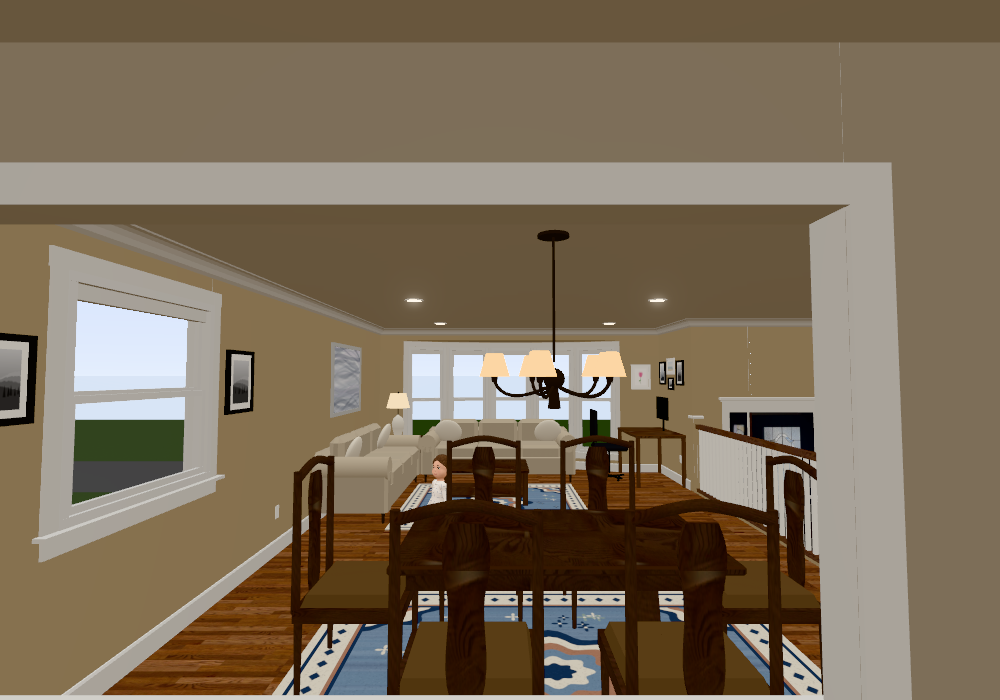
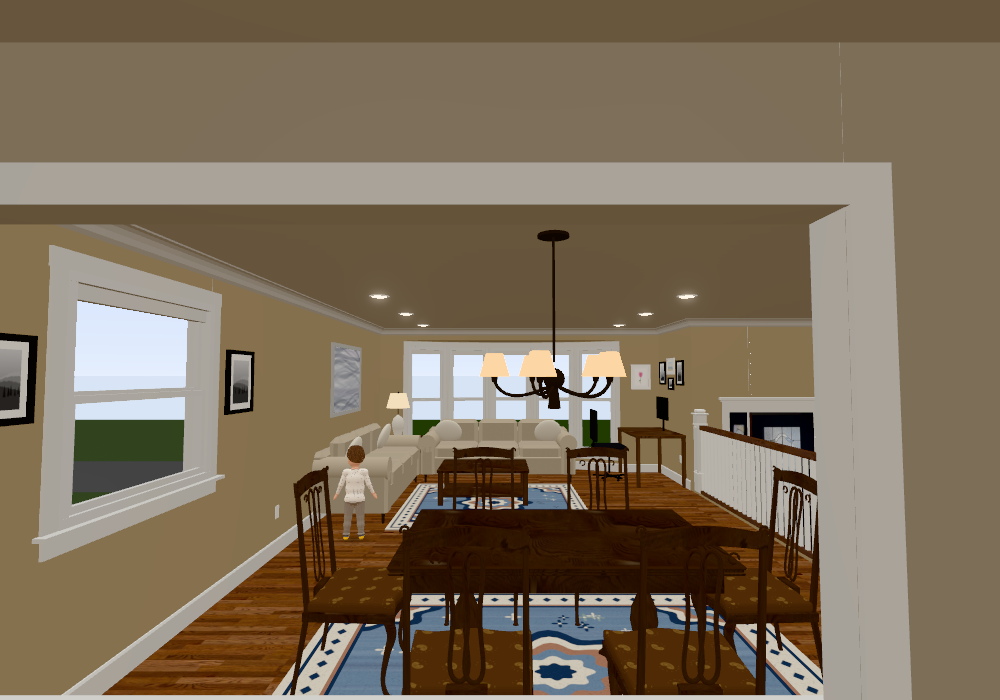
Breakfast and dining tables and chairs restyled
Breakfast table in light maple: breadboard ends with the grain across, a 0.3
apron and four turned legs. New 'wheat' chairs: dished saddle seat, splayed
turned legs with an H-stretcher and front stretcher, turned back posts with
acorn finials, a bent crest and lower rail joined by a sheaf of spindles.

Dining table: moulded top edge and a double pedestal of turned vase columns
on S-curved carved feet. Dining chairs: cabriole front legs with carved knees
and pad feet, rear legs splayed back, a serpentine seat in a new procedural
bronze-brown brocade, an interlaced figure-8 back with volutes, and an arched
crest with scrolled ends and a shell.

diff --git a/js/house.js b/js/house.js
@@ -1347,16 +1347,40 @@ const FURN = {
   },
   table(b, f) {
     const [x0, x1, z0, z1] = f.r, F = f.base, wood = 'stain:' + f.wood;
-    const H = 2.5;
-    b.box(x0, x1, F + H - 0.14, F + H, z0, z1, wood, { dens: 6, bevel: 0.035 });
-    b.box(x0 + 0.25, x1 - 0.25, F + H - 0.45, F + H - 0.14, z0 + 0.25, z1 - 0.25, wood, { skip: ['py'] });
+    const H = 2.5, top = F + H;
     if (f.chair === 'dining') {
+      // moulded top edge (stacked bevelled layers), 0.35 apron, double pedestal: turned vase columns on
+      // four splayed S-curved carved feet
+      b.box(x0, x1, top - 0.06, top, z0, z1, wood, { dens: 6, bevel: 0.025 });
+      b.box(x0 + 0.03, x1 - 0.03, top - 0.1, top - 0.06, z0 + 0.03, z1 - 0.03, wood, { skip: ['py'], dens: 6, bevel: 0.02 });
+      b.box(x0 + 0.015, x1 - 0.015, top - 0.14, top - 0.1, z0 + 0.015, z1 - 0.015, wood, { skip: ['py'], dens: 6, bevel: 0.02 });
+      b.box(x0 + 0.25, x1 - 0.25, top - 0.49, top - 0.14, z0 + 0.25, z1 - 0.25, wood, { skip: ['py'] });
+      const foot = new THREE.Shape();
+      foot.moveTo(0.08, 0.5); foot.bezierCurveTo(0.35, 0.52, 0.42, 0.14, 0.78, 0.12); foot.quadraticCurveTo(0.93, 0.11, 0.92, 0.03);
+      foot.lineTo(0.9, 0); foot.lineTo(0.72, 0); foot.bezierCurveTo(0.55, 0.02, 0.4, 0.3, 0.08, 0.3); foot.lineTo(0.08, 0.5);
+      const pz = (z0 + z1) / 2;
       for (const px of [x0 + 1.1, x1 - 1.1]) {
-        b.prim(new THREE.CylinderGeometry(0.22, 0.35, H - 0.6, 12), wood, px, F + (H - 0.45) / 2 + 0.15, (z0 + z1) / 2);
-        b.box(px - 0.3, px + 0.3, F, F + 0.3, z0 + 0.6, z1 - 0.6, wood, { skip: ['ny'] });
+        b.mesh(turned([px, F + 0.15, pz], [px, top - 0.49, pz], [[0.001, 0], [0.22, 0], [0.22, 0.14], [0.15, 0.19], [0.2, 0.3], [0.25, 0.42],
+          [0.22, 0.55], [0.1, 0.7], [0.15, 0.74], [0.15, 0.77], [0.09, 0.82], [0.13, 0.9], [0.18, 0.93], [0.18, 1], [0.001, 1]], 20), wood);
+        for (let k = 0; k < 4; k++) {
+          const g = new THREE.ExtrudeGeometry(foot, { depth: 0.12, bevelEnabled: true, bevelThickness: 0.02, bevelSize: 0.02, bevelSegments: 2, curveSegments: 10 });
+          g.translate(0, 0.02, -0.06);
+          b.prim(g, wood, px, F, pz, -(Math.PI / 4 + k * Math.PI / 2));
+        }
       }
     } else {
-      for (const [px, pz] of [[x0 + 0.3, z0 + 0.3], [x1 - 0.3, z0 + 0.3], [x0 + 0.3, z1 - 0.3], [x1 - 0.3, z1 - 0.3]]) b.prim(new THREE.CylinderGeometry(0.1, 0.07, H - 0.14, 10), wood, px, F + (H - 0.14) / 2, pz);
+      // breakfast table: top with breadboard ends (grain across), 0.3 apron inset 0.15, four turned legs
+      const T = 0.12, be = 0.25, ab = top - T - 0.3;
+      b.box(x0 + be, x1 - be, top - T, top, z0, z1, wood, { dens: 6, bevel: 0.03 });
+      for (const [xa, xb] of [[x0, x0 + be], [x1 - be, x1]]) {
+        b.box(xa, xb, top - T, top, z0, z1, wood, { dens: 6, bevel: 0.03, uvFaces: { py: [[z0, xa], [z1, xa], [z1, xb], [z0, xb]] } });
+      }
+      b.box(x0 + 0.15, x1 - 0.15, ab, top - T, z0 + 0.15, z1 - 0.15, wood, { skip: ['py'] });
+      for (const lx of [x0 + 0.25, x1 - 0.25]) for (const lz of [z0 + 0.25, z1 - 0.25]) {
+        b.mbox(lx - 0.1, lx + 0.1, ab - 0.25, ab, lz - 0.1, lz + 0.1, wood);         // square top block
+        b.mesh(turned([lx, F, lz], [lx, ab - 0.25, lz], [[0.001, 0], [0.066, 0], [0.07, 0.02], [0.075, 0.3], [0.08, 0.45], [0.09, 0.5],
+          [0.09, 0.53], [0.07, 0.56], [0.078, 0.62], [0.098, 0.74], [0.075, 0.86], [0.088, 0.9], [0.088, 0.93], [0.07, 0.955], [0.092, 0.98], [0.092, 1], [0.001, 1]]), wood);
+      }
     }
     b.collider(x0, x1, F, F + H, z0, z1);
     const cx = (x0 + x1) / 2, cz = (z0 + z1) / 2;
@@ -1770,58 +1794,163 @@ function sleighPanel(b, x0, x1, z0, z1, F, H, wood, axis) {
   }
   if (axis === 'z') b.collider(x0, x1, F, F + H, z0, z1); else b.collider(x0, x1, F, F + H, z0, z1);
 }
-function chair(b, x, z, F, face, wood, style) {
-  const [dx, dz] = faceDir(face);
-  const dining = style === 'dining';
-  const s = dining ? 0.95 : 0.85;
-  // local frame: forward (toward the table) = (dx, dz), side = perpendicular
-  const fx = dx, fz = dz, sx = -dz, sz = dx;
-  const P = (f, sd) => [x + fx * f + sx * sd, z + fz * f + sz * sd];
-  const ang = Math.atan2(fx, fz);
-  if (dining) {
-    const seat = new THREE.BoxGeometry(2 * s - 0.05, 0.22, 2 * s - 0.1);
-    b.prim(seat, wood, x, F + 1.42, z, ang);
-    const cush = new THREE.BoxGeometry(2 * s - 0.2, 0.2, 2 * s - 0.3, 1, 1, 1);
-    const pos = cush.attributes.position;
-    for (let i = 0; i < pos.count; i++) if (pos.getY(i) > 0) { pos.setX(i, pos.getX(i) * 0.92); pos.setZ(i, pos.getZ(i) * 0.9); }
-    cush.computeVertexNormals();
-    b.prim(cush, 'fabric:#6b5238', x, F + 1.62, z, ang);
-  } else {
-    b.prim(new THREE.BoxGeometry(2 * s, 0.14, 2 * s), wood, x, F + 1.5, z, ang);
-  }
-  for (const [f, sd] of [[s - 0.12, s - 0.12], [s - 0.12, -s + 0.12], [-s + 0.12, s - 0.12], [-s + 0.12, -s + 0.12]]) {
-    const [px, pz] = P(f, sd);
-    b.prim(new THREE.CylinderGeometry(0.07, dining ? 0.045 : 0.05, 1.35, 10), wood, px, F + 0.67, pz);
-  }
-  // back
-  const H = dining ? 3.75 : 3.25;
-  const back = -s + 0.08;
-  for (const sd of [s - 0.1, -s + 0.1]) {
-    const [px, pz] = P(back, sd);
-    b.prim(new THREE.CylinderGeometry(0.065, 0.075, H - 1.45, 10), wood, px, F + 1.45 + (H - 1.45) / 2, pz);
-  }
-  if (dining) {
-    // arched top rail + vase-shaped splat
-    const arc = new THREE.CatmullRomCurve3([-s + 0.1, -0.4, 0, 0.4, s - 0.1].map((sd, i) => {
-      const [px, pz] = P(back, sd); return new THREE.Vector3(px, F + H - 0.12 + [0, 0.12, 0.18, 0.12, 0][i], pz);
-    }));
-    b.mesh(new THREE.TubeGeometry(arc, 16, 0.075, 8), wood);
-    const sh = new THREE.Shape();
-    sh.moveTo(-0.18, 0); sh.bezierCurveTo(-0.34, 0.5, -0.12, 0.9, -0.26, 1.4); sh.bezierCurveTo(-0.34, 1.8, -0.22, 1.95, -0.2, 2.05);
-    sh.lineTo(0.2, 2.05); sh.bezierCurveTo(0.22, 1.95, 0.34, 1.8, 0.26, 1.4); sh.bezierCurveTo(0.12, 0.9, 0.34, 0.5, 0.18, 0); sh.lineTo(-0.18, 0);
-    const splat = new THREE.ExtrudeGeometry(sh, { depth: 0.06, bevelEnabled: false, curveSegments: 8 });
-    splat.translate(0, 0, -0.03);
-    const [px, pz] = P(back, 0);
-    b.prim(splat, wood, px, F + 1.55, pz, ang);
-  } else {
-    const [tx, tz] = P(back, 0);
-    b.prim(new THREE.BoxGeometry(2 * s - 0.2, 0.3, 0.1), wood, tx, F + H - 0.15, tz, ang);
-    for (let i = -2; i <= 2; i++) {
-      const [px, pz] = P(back, i * 0.28);
-      b.prim(new THREE.CylinderGeometry(0.03, 0.03, H - 1.8, 6), wood, px, F + 1.55 + (H - 1.8) / 2, pz);
+// Lathe along the segment p0 → p1; profile [[r, t], ...], t = 0..1 from p0 to p1.
+function turned(p0, p1, profile, seg = 14, phi = 0) {
+  const a = new THREE.Vector3(...p0), d = new THREE.Vector3(...p1).sub(a), len = d.length();
+  const g = new THREE.LatheGeometry(profile.map(([r, t]) => new THREE.Vector2(r, t * len)), seg, phi);
+  g.applyQuaternion(new THREE.Quaternion().setFromUnitVectors(new THREE.Vector3(0, 1, 0), d.normalize()));
+  g.translate(a.x, a.y, a.z);
+  return g;
+}
+// Tube along a curve with its radius following rf(t), t = 0..1 along the curve.
+function taperTube(curve, rf, segs = 24, radial = 8, closed = false) {
+  const g = new THREE.TubeGeometry(curve, segs, 1, radial, closed), pos = g.attributes.position;
+  const c = new THREE.Vector3(), v = new THREE.Vector3();
+  for (let i = 0; i <= segs; i++) {
+    curve.getPointAt(i / segs, c);
+    for (let j = 0; j <= radial; j++) {
+      const k = i * (radial + 1) + j;
+      v.fromBufferAttribute(pos, k).sub(c).multiplyScalar(rf(i / segs)).add(c);
+      pos.setXYZ(k, v.x, v.y, v.z);
     }
   }
+  g.computeVertexNormals();
+  return g;
+}
+// piecewise-linear [[t, v], ...] → function of t
+const ramp = pts => t => {
+  for (let i = 1; i < pts.length; i++) if (t <= pts[i][0]) return pts[i - 1][1] + (pts[i][1] - pts[i - 1][1]) * (t - pts[i - 1][0]) / (pts[i][0] - pts[i - 1][0]);
+  return pts[pts.length - 1][1];
+};
+const V3 = (x, y, z) => new THREE.Vector3(x, y, z);
+// A flat board in a chair back: runs x0 → x1 between edge heights yb(x) and yt(x), `thick` deep, centred on
+// z = zAt(x, y) (the back's rake and bend).
+function backBoard(x0, x1, yb, yt, thick, zAt, n = 16) {
+  const pts = [];
+  for (let i = 0; i <= n; i++) { const x = x0 + (x1 - x0) * i / n; pts.push(new THREE.Vector2(x, yb(x))); }
+  for (let i = n; i >= 0; i--) { const x = x0 + (x1 - x0) * i / n; pts.push(new THREE.Vector2(x, yt(x))); }
+  const g = new THREE.ExtrudeGeometry(new THREE.Shape(pts), { depth: thick, bevelEnabled: false });
+  const pos = g.attributes.position;
+  for (let i = 0; i < pos.count; i++) pos.setZ(i, pos.getZ(i) - thick / 2 + zAt(pos.getX(i), pos.getY(i)));
+  g.computeVertexNormals();
+  return g;
+}
+
+// Chairs are built in a local frame (+z toward the table, y up from the floor) and turned into place.
+function chair(b, x, z, F, face, wood, style) {
+  const [dx, dz] = faceDir(face);
+  const put = (g, mat = wood) => b.prim(g, mat, x, F, z, Math.atan2(dx, dz));
+  const s = style === 'dining' ? diningChair(put) : wheatChair(put);
   b.collider(x - s, x + s, F, F + 1.7, z - s, z + s);
+}
+
+// Wheat-back (sheaf-back) Windsor: dished saddle seat, splayed turned legs with an H-stretcher and a front
+// stretcher, turned back posts with acorn finials, a bent crest rail and a lower back rail joined by a fan
+// of spindles gathered into a sheaf half way up.
+function wheatChair(put) {
+  const seat = new THREE.BoxGeometry(1.35, 0.12, 1.3, 14, 1, 14), sp = seat.attributes.position;
+  for (let i = 0; i < sp.count; i++) {
+    let u = sp.getX(i) / 0.675, v = sp.getZ(i) / 0.65;
+    const m = Math.max(Math.abs(u), Math.abs(v));
+    if (m > 1e-6) { const k = m / Math.pow(u ** 4 + v ** 4, 0.25); u *= k; v *= k; }      // rounded (superellipse) plan
+    const dish = sp.getY(i) > 0 ? 0.035 * Math.max(0, 1 - u * u - (v + 0.1) ** 2) : 0;
+    sp.setXYZ(i, u * 0.675, sp.getY(i) + 1.44 - dish, v * 0.65);
+  }
+  seat.computeVertexNormals();
+  put(seat);
+  // legs splayed about 5 degrees, turned with a vase and rings
+  const legs = [[-0.45, 0.38], [0.45, 0.38], [-0.45, -0.36], [0.45, -0.36]].map(([lx, lz]) => ({
+    top: [lx, 1.39, lz], foot: [lx + Math.sign(lx) * 0.12, 0, lz + Math.sign(lz) * 0.1] }));
+  const legAt = (l, y) => l.foot.map((c, i) => c + (l.top[i] - c) * y / 1.39);
+  for (const l of legs) put(turned(l.foot, l.top, [[0.001, 0], [0.042, 0], [0.045, 0.06], [0.055, 0.35], [0.062, 0.4], [0.045, 0.43],
+    [0.058, 0.5], [0.07, 0.7], [0.06, 0.9], [0.045, 0.97], [0.045, 1], [0.001, 1]], 12));
+  const stretch = [[0.001, 0], [0.028, 0], [0.03, 0.1], [0.042, 0.5], [0.03, 0.9], [0.028, 1], [0.001, 1]];
+  const sides = [[0, 2], [1, 3]].map(([f, k]) => [legAt(legs[f], 0.5), legAt(legs[k], 0.5)]);
+  for (const [p, q] of sides) put(turned(p, q, stretch, 10));
+  const mid = sides.map(([p, q]) => p.map((c, i) => (c + q[i]) / 2));
+  put(turned(mid[0], mid[1], stretch, 10));                                              // H-stretcher
+  put(turned(legAt(legs[0], 0.62), legAt(legs[1], 0.62), stretch, 10));                 // front stretcher
+  // back: posts raked back; crest rail and lower rail bent back; spindles in a sheaf
+  const zb = y => -0.5 - (y - 1.46) * 0.13, bow = x => 0.07 * (1 - (x / 0.5) ** 2), zAt = (x, y) => zb(y) - bow(x);
+  for (const sx of [-1, 1]) {
+    put(turned([sx * 0.5, 1.46, zb(1.46)], [sx * 0.52, 3.3, zb(3.3)], [[0.001, 0], [0.05, 0], [0.052, 0.05], [0.04, 0.15], [0.048, 0.45],
+      [0.042, 0.6], [0.038, 0.95], [0.04, 1], [0.001, 1]], 12));
+    const acorn = new THREE.SphereGeometry(0.05, 12, 8); acorn.scale(1, 1.35, 1);
+    acorn.translate(sx * 0.52, 3.36, zb(3.36)); put(acorn);
+  }
+  const cb = x => 2.98 + 0.03 * (1 - (x / 0.47) ** 2);
+  put(backBoard(-0.5, 0.5, cb, x => 3.21 + 0.06 * (1 - (x / 0.5) ** 2), 0.07, zAt));             // crest
+  put(backBoard(-0.5, 0.5, () => 2.0, () => 2.1, 0.06, zAt));                                    // lower rail
+  for (let i = 0; i < 9; i++) {
+    const u = (i - 4) / 4, pt = (x, y) => V3(x, y, zAt(x, y));
+    const path = new THREE.CatmullRomCurve3([pt(u * 0.4, cb(u * 0.4) + 0.02), pt(u * 0.2, 2.65), pt(u * 0.05, 2.35), pt(u * 0.3, 2.08)], false, 'centripetal');
+    put(new THREE.TubeGeometry(path, 16, 0.016, 5));
+  }
+  const band = new THREE.CylinderGeometry(0.1, 0.1, 0.07, 16); band.scale(1, 1, 0.45); band.translate(0, 2.35, zAt(0, 2.35)); put(band);   // sheaf
+  return 0.7;
+}
+
+// Dining chair: cabriole front legs with carved knees, straight rear legs splayed back, a serpentine
+// upholstered seat in brocade, an open back with an interlaced figure-8 splat and small volutes, and an
+// arched crest rail with scrolled ends and a carved shell at its centre.
+function diningChair(put) {
+  const zf = u => 0.78 + 0.05 * Math.cos(1.5 * Math.PI * u);                     // serpentine front edge
+  const outline = (inset, back) => {
+    const pts = [[0.8 - inset, back], [-0.8 + inset, back]];
+    for (let i = 0; i <= 16; i++) { const u = -1 + 2 * i / 16; pts.push([u * (0.88 - inset), zf(u) - inset]); }
+    return new THREE.Shape(pts.map(([px, pz]) => new THREE.Vector2(px, pz)));
+  };
+  const flat = (shape, y0, y1, o = {}) => {
+    const bt = o.bevelThickness || 0;
+    const g = new THREE.ExtrudeGeometry(shape, { depth: y1 - y0 - 2 * bt, bevelEnabled: !!bt, curveSegments: 12, ...o });
+    g.rotateX(Math.PI / 2); g.translate(0, y1 - bt, 0);
+    return g;
+  };
+  put(flat(outline(0, -0.78), 1.28, 1.42));                                                  // seat rails
+  put(flat(outline(0.06, -0.64), 1.42, 1.6, { bevelThickness: 0.06, bevelSize: 0.05, bevelSegments: 3 }), 'brocade');
+  put(new THREE.BoxGeometry(0.5, 0.2, 0.14).translate(0, 1.52, -0.72));                     // shoe under the splat
+  // cabriole front legs: knee forward, ankle back, pad foot; a small carving on each knee
+  for (const sx of [-1, 1]) {
+    const lx = sx * 0.74, P = (y, dz) => V3(lx, y, 0.62 + dz);
+    put(taperTube(new THREE.CatmullRomCurve3([P(1.3, 0), P(1.06, 0.08), P(0.72, 0), P(0.3, -0.06), P(0.1, -0.01), P(0.02, 0.05)]),
+      ramp([[0, 0.07], [0.12, 0.085], [0.45, 0.055], [0.8, 0.035], [1, 0.045]]), 24, 10));
+    const knee = new THREE.SphereGeometry(0.06, 10, 8); knee.scale(0.9, 1.3, 0.45); knee.translate(lx, 1.08, 0.75); put(knee);
+    const pad = new THREE.SphereGeometry(0.07, 12, 8); pad.scale(1, 0.45, 1.1); pad.translate(lx, 0.03, 0.68); put(pad);
+  }
+  // rear legs splayed back, and the stiles above the seat raked back
+  const zb = y => -0.72 - (y - 1.4) * 0.107, lean = (x, y) => zb(y);
+  for (const sx of [-1, 1]) {
+    put(turned([sx * 0.74, 0, -0.95], [sx * 0.72, 1.4, zb(1.4)], [[0.001, 0], [0.042, 0], [0.058, 1], [0.001, 1]], 4, Math.PI / 4));
+    put(turned([sx * 0.72, 1.4, zb(1.4)], [sx * 0.7, 3.5, zb(3.5)], [[0.001, 0], [0.058, 0], [0.045, 1], [0.001, 1]], 4, Math.PI / 4));
+  }
+  // crest: arched, ears flicking up into scrolls, a scalloped shell in the middle
+  const cu = x => x / 0.74;
+  put(backBoard(-0.74, 0.74, x => 3.3 + 0.06 * (1 - cu(x) ** 2), x => 3.48 + 0.1 * (1 - cu(x) ** 2) + 0.4 * Math.max(0, Math.abs(cu(x)) - 0.85), 0.08, lean, 24));
+  for (const sx of [-1, 1]) {
+    const ear = new THREE.TorusGeometry(0.05, 0.016, 6, 14, Math.PI * 1.6);
+    ear.rotateZ(sx > 0 ? -0.6 : Math.PI + 0.6); ear.translate(sx * 0.73, 3.52, zb(3.52) + 0.04); put(ear);
+  }
+  const shell = new THREE.Shape();
+  shell.moveTo(-0.175, 0);
+  for (let i = 0; i <= 36; i++) { const a = Math.PI - Math.PI * i / 36, r = 0.175 * (1 - 0.07 * Math.abs(Math.sin(4.5 * (Math.PI - a)))); shell.lineTo(r * Math.cos(a), 0.9 * r * Math.sin(a)); }
+  const sg = new THREE.ExtrudeGeometry(shell, { depth: 0.03, bevelEnabled: true, bevelThickness: 0.015, bevelSize: 0.012, bevelSegments: 2 });
+  sg.translate(0, 3.4, zb(3.4) + 0.04); put(sg);
+  // open back: two figure-8 ribbons crossing each other, a hair apart in depth, and volutes at the top
+  for (const k of [-1, 1]) {
+    const pts = [];
+    for (let i = 0; i < 28; i++) {
+      const th = 2 * Math.PI * i / 28, y = 2.49 + 0.8 * Math.cos(th);
+      pts.push(V3(k * 0.09 + 0.24 * Math.sin(th) * (1 - 0.7 * Math.sin(th) ** 2), y, zb(y) + k * 0.014));
+    }
+    const g = taperTube(new THREE.CatmullRomCurve3(pts, true, 'centripetal'), () => 0.032, 72, 6, true);
+    const pos = g.attributes.position;
+    for (let i = 0; i < pos.count; i++) { const zc = zb(pos.getY(i)) + k * 0.014; pos.setZ(i, zc + (pos.getZ(i) - zc) * 0.45); }   // flat ribbon
+    g.computeVertexNormals();
+    put(g);
+    const vol = new THREE.TorusGeometry(0.06, 0.015, 6, 14, Math.PI * 1.7);
+    vol.rotateZ(k > 0 ? -1.2 : Math.PI + 1.2); vol.translate(k * 0.36, 3.2, zb(3.2)); put(vol);
+  }
+  return 0.9;
 }
 function appliance(b, f, front) {
   // the cabinet stands on four levelling feet (keeps its lower edges clear of the floor)

diff --git a/js/materials.js b/js/materials.js
@@ -16,6 +16,7 @@ const DEFS = {
   // area rugs upstairs: a dusty-blue traditional pattern (drawn), laid once across each rug
   rugDining: { color: '#ffffff', roughness: 1, procedural: 'rugPattern', albedo: [0.33, 0.37, 0.42] },
   rugLiving: { color: '#ffffff', roughness: 1, procedural: 'rugPattern', albedo: [0.33, 0.37, 0.42] },
+  brocade: { color: '#ffffff', roughness: 0.8, procedural: 'brocade', repeat: 0.9, albedo: [0.13, 0.07, 0.035] },   // dining chair seats
   concrete: { map: 'concrete.jpg', repeat: 10, roughness: 0.85 },
   stone: { map: 'concrete.jpg', repeat: 4, roughness: 0.9, color: '#d8cfc0' },
   granite: { map: 'granite_bath1.jpg', repeat: 2.2, roughness: 0.18 },
@@ -198,6 +199,26 @@ function proceduralTexture(kind) {
     t.colorSpace = THREE.SRGBColorSpace; t.anisotropy = maxAniso;
     cache.set(kind, t);
     return t;
+  } else if (kind === 'brocade') {
+    // bronze-brown brocade: muted gold paisley swirls in offset rows (tiles seamlessly)
+    g.fillStyle = '#5c3b24'; g.fillRect(0, 0, 512, 512);
+    g.globalAlpha = 0.08;
+    for (let x = 0; x < 512; x += 4) { g.fillStyle = x % 8 ? '#3e2716' : '#7a5636'; g.fillRect(x, 0, 2, 512); }
+    const paisley = (cx, cy, rot, sc) => {
+      g.save(); g.translate(cx, cy); g.rotate(rot); g.scale(sc, sc);
+      g.beginPath(); g.moveTo(0, 58); g.bezierCurveTo(-52, 40, -46, -38, 4, -50); g.bezierCurveTo(44, -58, 50, -18, 22, -6);
+      g.bezierCurveTo(8, 0, 12, 16, 26, 12); g.bezierCurveTo(30, 36, 18, 52, 0, 58);
+      g.globalAlpha = 0.75; g.fillStyle = '#9c7a4a'; g.fill();
+      g.globalAlpha = 0.9; g.lineWidth = 4; g.strokeStyle = '#5c3b24';
+      g.beginPath(); g.moveTo(0, 40); g.bezierCurveTo(-30, 26, -28, -26, 4, -32); g.bezierCurveTo(26, -36, 30, -14, 14, -10); g.stroke();
+      g.beginPath(); g.arc(-4, 8, 9, 0, Math.PI * 2); g.stroke();
+      g.globalAlpha = 0.7; g.fillStyle = '#9c7a4a';
+      for (let i = 0; i < 7; i++) { const a = -0.4 + i * 0.5; g.beginPath(); g.arc(Math.cos(a) * 74, 12 + Math.sin(a) * 70, 3.5, 0, Math.PI * 2); g.fill(); }
+      g.restore();
+    };
+    for (const [cx, cy, rot] of [[128, 128, 0.5], [384, 384, 0.5], [384, 128, -2.6], [128, 384, -2.6]]) {
+      for (const ox of [-512, 0, 512]) for (const oy of [-512, 0, 512]) paisley(cx + ox, cy + oy, rot, 0.95);
+    }
   } else if (kind === 'shingles') {
     // architectural asphalt shingles, 5" exposure
     g.fillStyle = '#39383a'; g.fillRect(0, 0, 512, 512);

diff --git a/js/layout.js b/js/layout.js
@@ -347,7 +347,7 @@ export const FURNITURE = [
   { type: 'vanity', r: [19.5, 21.2, 7.1, 11.2], base: MAIN, face: 'e', top: 'granite', cab: '#f2f1ec', mirror: true },
   // Kitchen
   { type: 'kitchen' },
-  { type: 'table', r: [41.07, 44.67, 3.25, 6.45], base: MAIN, wood: '#c49a63', chairs: 4, chair: 'windsor', against: 'e' },   // pushed to the window wall
+  { type: 'table', r: [41.07, 44.67, 3.25, 6.45], base: MAIN, wood: '#c9a26a', chairs: 4, chair: 'wheat', against: 'e' },   // pushed to the window wall
   // Dining & living
   { type: 'table', r: [34.3, 39.7, 13.4, 16.8], base: MAIN, wood: '#3e2518', chairs: 6, chair: 'dining' },
   // couches meet at the front outside corner with an end table (and table lamp) between them
